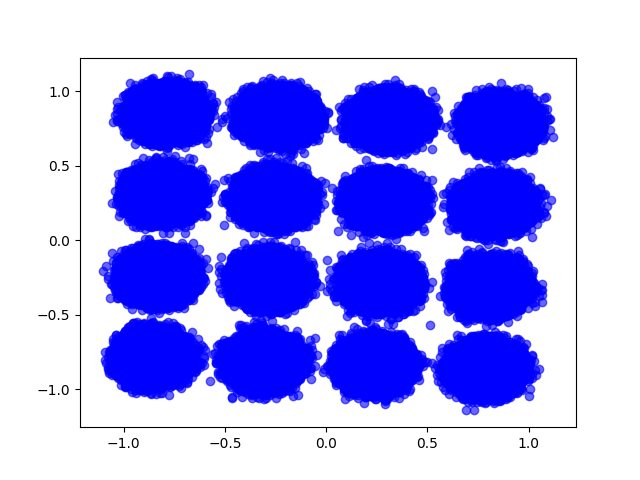
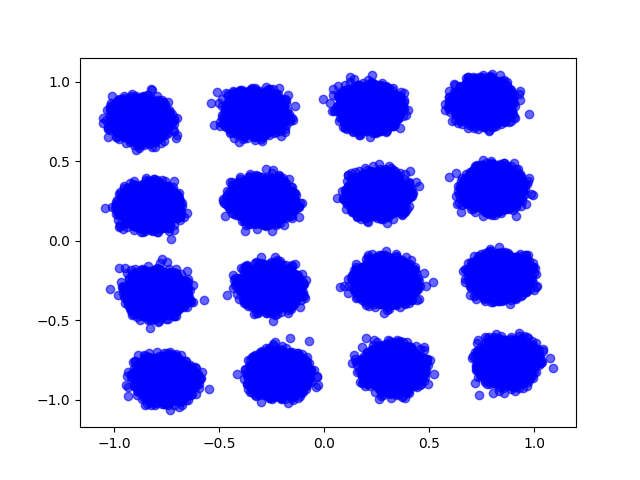
mma updated in cma_utils

diff --git a/DSP/cma_utils.py b/DSP/cma_utils.py
@@ -130,6 +130,14 @@ def mma_python(E_in, num_taps, mu_CMA=0.01, Radius_options = (1/np.sqrt(10))*np.
     """
     CMA with moving-average convergence detection (last 10 symbols)
     """
+    def get_nearest_radius(x):
+        decision_radiuses = [Radius_options[0] + 1/3*(Radius_options[1]-Radius_options[0]), Radius_options[1] + 2/3*(Radius_options[2]-Radius_options[1])]
+        if np.abs(x) < decision_radiuses[0]:
+            return Radius_options[0]
+        elif np.abs(x) < decision_radiuses[1]:
+            return Radius_options[1]
+        else:
+            return Radius_options[2]
     E_norm = normalise(E_in.copy())
 
     xpol = E_norm[:, 0]
@@ -141,7 +149,7 @@ def mma_python(E_in, num_taps, mu_CMA=0.01, Radius_options = (1/np.sqrt(10))*np.
     filters = initialise_filters(num_taps)
     pxx, pyy, pxy, pyx = filters['pxx'], filters['pyy'], filters['pxy'], filters['pyx']
 
-    cma_error = {}
+    cma_error = []
 
     for ii in range(num_taps - 1, N):
 
@@ -151,16 +159,16 @@ def mma_python(E_in, num_taps, mu_CMA=0.01, Radius_options = (1/np.sqrt(10))*np.
         x_cap = np.dot(pxx, x_vec) + np.dot(pxy, y_vec)
         y_cap = np.dot(pyx, x_vec) + np.dot(pyy, y_vec)
 
-        nearest_radius_x = Radius_options[np.argmin(np.abs(np.abs(x_cap) - Radius_options))]
-        nearest_radius_y = Radius_options[np.argmin(np.abs(np.abs(y_cap) - Radius_options))]
-        
+        nearest_radius_x = get_nearest_radius(x_cap)
+        nearest_radius_y = get_nearest_radius(y_cap)
+
         #print(nearest_radius_x)
         
         e_x = nearest_radius_x**2 - np.abs(x_cap)**2
         e_y = nearest_radius_y**2 - np.abs(y_cap)**2
 
         e_cma = 0.5 * (np.abs(e_x) + np.abs(e_y))
-        cma_error[ii] = e_cma
+        cma_error.append(e_cma)
 
         # ---- Tap updates ----
         pxx += 2 * mu_CMA * e_x * x_cap * np.conj(x_vec)
@@ -173,8 +181,9 @@ def mma_python(E_in, num_taps, mu_CMA=0.01, Radius_options = (1/np.sqrt(10))*np.
 
     return (
         np.column_stack((x_out, y_out)),
-        {'pxx': pxx, 'pxy': pxy, 'pyx': pyx, 'pyy': pyy,'cma_error': cma_error,}
+        {'pxx': pxx, 'pxy': pxy, 'pyx': pyx, 'pyy': pyy,'cma_error': cma_error}
     )
+
 
 def cma_python(E_in, num_taps, mu_CMA=0.01):
     """

diff --git a/DSP/rough_testing_script.py b/DSP/rough_testing_script.py
@@ -3,7 +3,7 @@ import numpy as np
 from scipy.linalg import expm
 import matplotlib.pyplot as plt
 
-N_SYMBOLS = 1000000
+N_SYMBOLS = 100000
 N_TAPS = 151
 
 def normalise(E):
@@ -147,19 +147,16 @@ def main():
     E_after_pmd = cma_utils.apply_pmd(
         E_in=initial_symbols, 
         # DGD_ps_per_sqrt_km=31.6, # typical mean DGD 
-        DGD_ps_per_sqrt_km=31.6,
+        DGD_ps_per_sqrt_km=10,
         L_m=10000, # fiber length
         N_sections=100, # number of fiber sections 
         Rs=32e9, # 32 gbaud
         SpS=4 # samples per symbol
     )
 
-    symbols_with_pmd_corrected_mma,info_dict_mcma = cma_utils.mma_python(E_after_pmd,N_TAPS,mu_CMA=1e-4)
+    symbols_with_pmd_corrected_mma,info_dict_mcma = mma_python(E_after_pmd,N_TAPS,mu_CMA=1e-4)
     cma_utils.save_constellation(symbols_with_pmd_corrected_mma,"mma_corrected")
     smoothed_log_errors_mma = cma_utils.plot_conv(info_dict_mcma['cma_error'])
-    plt.plot(smoothed_log_errors_mma)
-    plt.show()
-    plt.close()
     converged_symbol_mma = cma_utils.find_convergence_backward(smoothed_log_errors_mma)
 
     symbols_with_pms_corrected_cma,info_dict_cma = cma_utils.cma_python(E_after_pmd,N_TAPS,mu_CMA=1e-4)
